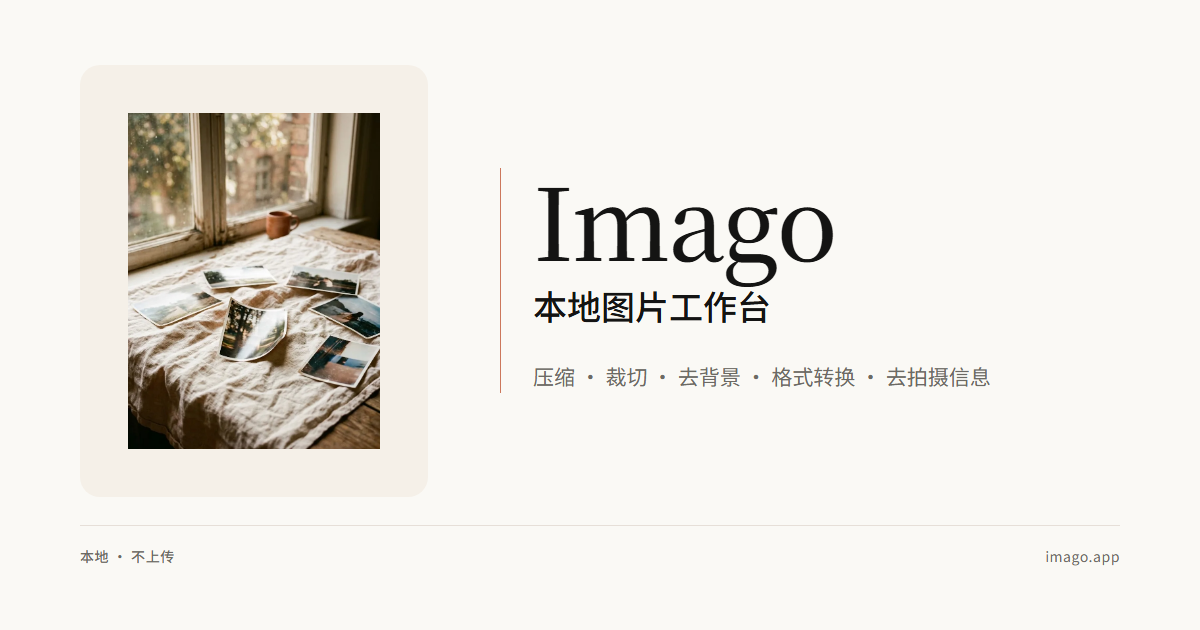
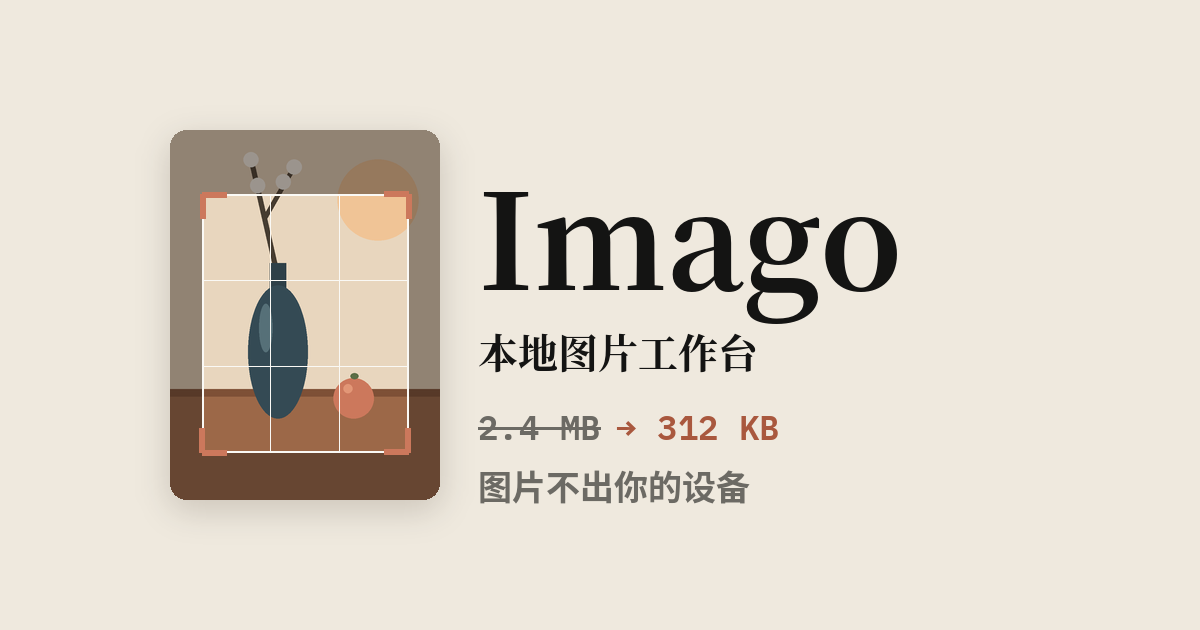
chore(seo): 替换 OG 图并修正 og/twitter meta 指向 imago-8pp.pages.dev

diff --git a/index.html b/index.html
@@ -36,7 +36,7 @@
 
     <!-- Open Graph / Facebook -->
     <meta property="og:type" content="website" />
-    <meta property="og:url" content="https://imago.app/" />
+    <meta property="og:url" content="https://imago-8pp.pages.dev/" />
     <meta property="og:site_name" content="Imago" />
     <meta property="og:locale" content="zh_CN" />
     <meta property="og:title" content="Imago | 隐私安全的极简本地图片处理工具" />
@@ -44,26 +44,23 @@
       property="og:description"
       content="无需上传服务器的 AI 背景移除与图片处理工具：支持压缩、转换、裁剪、拼接及隐私清除。保障您的数据安全。"
     />
-    <meta property="og:image" content="https://imago.app/og-image.png" />
+    <meta property="og:image" content="https://imago-8pp.pages.dev/og-image.png" />
     <meta property="og:image:type" content="image/png" />
     <meta property="og:image:width" content="1200" />
     <meta property="og:image:height" content="630" />
-    <meta
-      property="og:image:alt"
-      content="Imago · 本地图片工作台 — 压缩、裁切、去背景、格式转换，数据不上传"
-    />
+    <meta property="og:image:alt" content="Imago · 本地图片工作台" />
 
     <!-- Twitter -->
-    <meta property="twitter:card" content="summary_large_image" />
-    <meta property="twitter:url" content="https://imago.app/" />
-    <meta property="twitter:title" content="Imago | 隐私安全的极简本地图片处理工具" />
+    <meta name="twitter:card" content="summary_large_image" />
+    <meta name="twitter:url" content="https://imago.app/" />
+    <meta name="twitter:title" content="Imago | 隐私安全的极简本地图片处理工具" />
     <meta
-      property="twitter:description"
+      name="twitter:description"
       content="无需上传服务器的 AI 背景移除与图片处理工具：支持压缩、转换、裁剪、拼接及隐私清除。保障您的数据安全。"
     />
-    <meta property="twitter:image" content="https://imago.app/og-image.png" />
+    <meta name="twitter:image" content="https://imago-8pp.pages.dev/og-image.png" />
     <meta
-      property="twitter:image:alt"
+      name="twitter:image:alt"
       content="Imago · 本地图片工作台 — 压缩、裁切、去背景、格式转换，数据不上传"
     />
 
